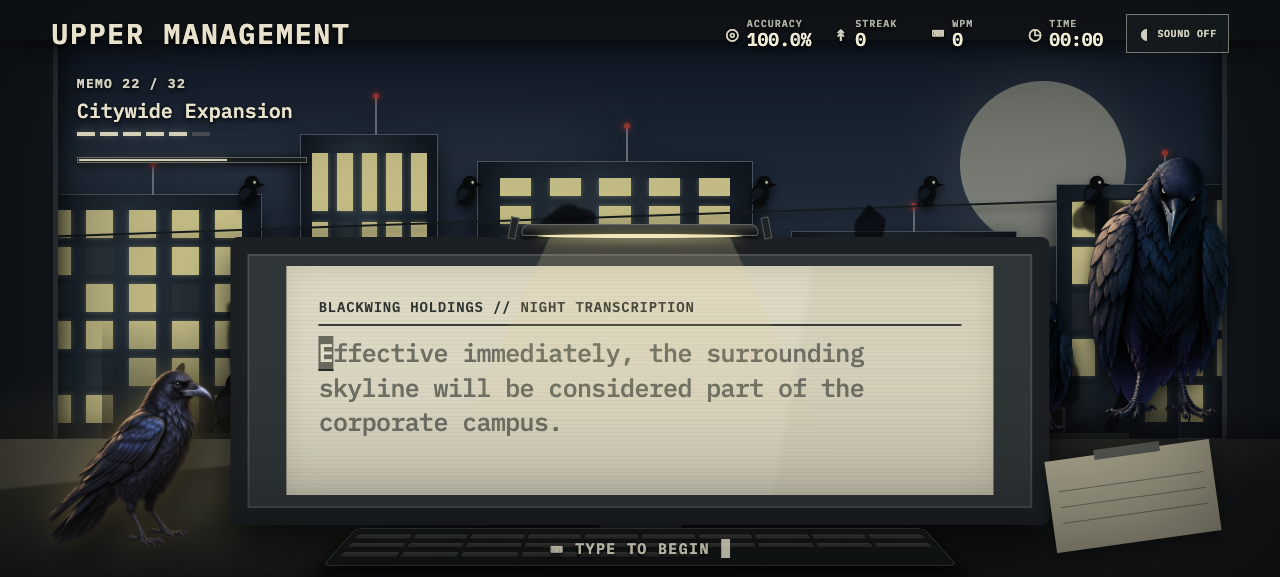
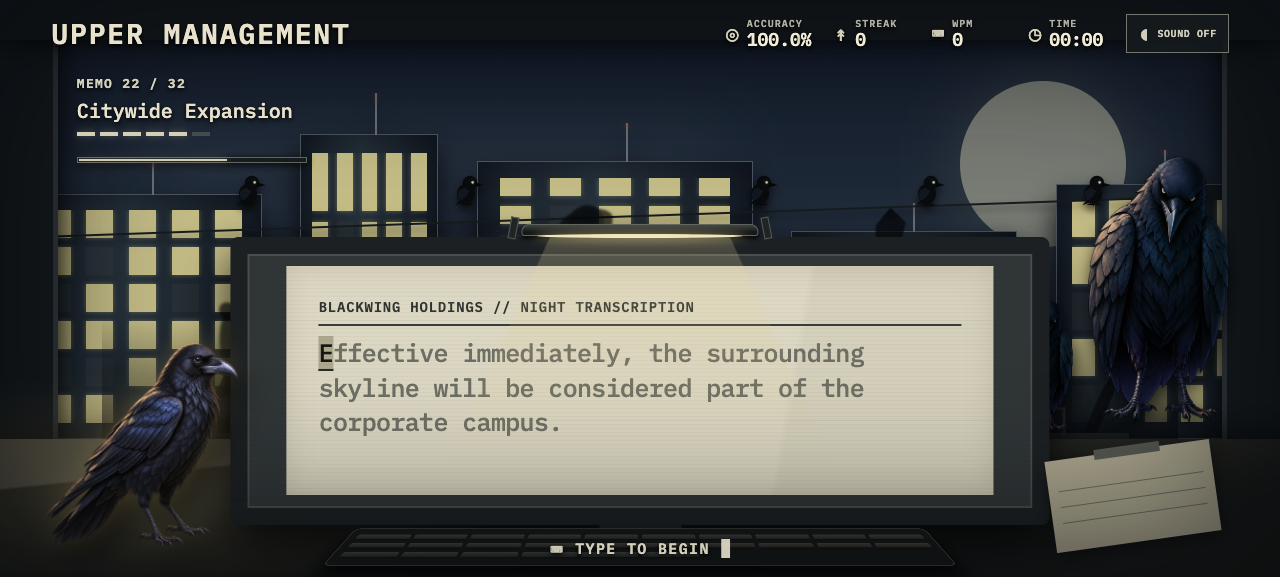
Increase junior supervisor presence

diff --git a/typing/src/styles.css b/typing/src/styles.css
@@ -137,7 +137,7 @@ button { font: inherit; }
 .keyboard i { min-width: 8px; background: linear-gradient(#454640, #292a28); border-radius: 2px; border-bottom: 2px solid #101110; }
 .clipboard { position: absolute; z-index: 2; right: 5%; bottom: 6%; width: 13vw; min-width: 110px; height: 16vh; padding: 16px 10px; background: #aaa58d; transform: rotate(-8deg); box-shadow: 0 5px 17px #0008; }
 .clipboard::before { content: ''; position: absolute; width: 40%; height: 10px; left: 30%; top: -5px; background: #555751; }.clipboard i { display: block; height: 1px; margin-top: 15px; background: #6e6d61; }
-.supervisor-perch { position: absolute; z-index: 4; left: 1.5%; bottom: 5%; width: clamp(125px, 14vw, 190px); transition: transform .5s; filter: drop-shadow(8px 14px 12px #000b); }
+.supervisor-perch { position: absolute; z-index: 4; left: 1.5%; bottom: 5%; width: clamp(145px, 16vw, 215px); transition: transform .5s; filter: drop-shadow(8px 14px 12px #000b); }
 .supervisor { display: block; width: 100%; height: auto; transform-origin: bottom; transition: filter .25s, transform .25s; animation: ravenBreathe 3s ease-in-out infinite; }
 .supervisor-image { filter: brightness(1.12) drop-shadow(0 0 13px #e8ce7852); }
 .supervisor-image.watchful { filter: brightness(1.17) contrast(1.06) drop-shadow(0 0 16px #e8ce7866); }
@@ -189,13 +189,13 @@ button { font: inherit; }
   .hud { padding: 9px 12px; }.brand-block h1 { display: none; }.metrics { width: 100%; justify-content: space-between; gap: 5px; }.metric { min-width: 0; gap: 4px; }.metric > b { font-size: 16px; }.metric small { font-size: 8px; }.metric strong { font-size: 14px; }.audio-toggle { padding: 7px; }.audio-toggle span { display: none; }.audio-toggle b { font-size: 17px; }
   .stage-label { top: 9%; left: 14px; }
   .monitor { width: 92vw; height: 51vh; bottom: 15%; }.memo-card { inset: 3%; padding: 17px; }.memo-header { font-size: clamp(11px, 3vw, 14px); }.memo-text { font-size: clamp(20px, 5vw, 25px); line-height: 1.34; }
-  .supervisor-perch { left: -1%; bottom: 3%; width: 112px; }.clipboard { display: none; }.keyboard { width: 74vw; bottom: 3%; }
+  .supervisor-perch { left: -1%; bottom: 3%; width: 125px; }.clipboard { display: none; }.keyboard { width: 74vw; bottom: 3%; }
   .skyline { left: -20%; right: -20%; }.rear-office { display: none; }.window-raven-wrap { right: 0; top: 14%; transform: scale(.7) translateX(100px); }.stage-3 .window-raven-wrap, .stage-4 .window-raven-wrap, .stage-5 .window-raven-wrap, .stage-6 .window-raven-wrap { transform: scale(.7); }
   .shift-progress { left: 14px; right: 14px; width: auto; top: 58px; }.stage-label { top: 12%; }.game-feedback { top: 17%; max-width: 92vw; overflow: hidden; text-overflow: ellipsis; font-size: 9px; }
 }
 
 @media (max-height: 650px) and (min-width: 761px) {
-  .monitor { height: 50vh; bottom: 9%; }.memo-rule { margin-bottom: 10px; }.supervisor-perch { width: 165px; }.stage-label { top: 13%; }.shift-progress { top: calc(13% + 82px); }
+  .monitor { height: 50vh; bottom: 9%; }.memo-rule { margin-bottom: 10px; }.supervisor-perch { width: 190px; }.stage-label { top: 13%; }.shift-progress { top: calc(13% + 82px); }
 }
 
 @media (prefers-reduced-motion: reduce) {
